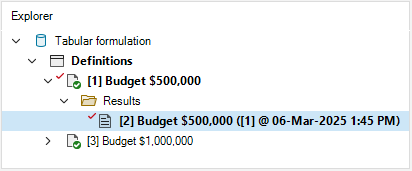
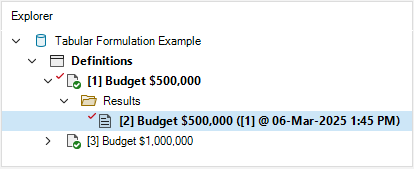
Updates phase 3

diff --git a/docs/multi-cost_prioritization_tutorial.md b/docs/multi-cost_prioritization_tutorial.md
@@ -12,8 +12,6 @@ permalink: /multicost_prioritization
   }
 </style>
 
-<!-- Update library name so "cost" is also title case !-->
-
 ## **Multi-cost prioritization with prioritizr SyncroSim**
 
 This tutorial provides an overview of working with **prioritizr** in SyncroSim Studio to demonstrate how to integrate multiple cost-layers into a lake conservation problem. It covers the following steps:
@@ -37,7 +35,7 @@ In SyncroSim, a library is a file with extension *.ssim* that stores all the mod
   a. From the list of packages, select <b>prioritizr</b>. 
   <!-- Add screenshots of this step !--> 
   <br><br>
-  b. From the list of template libraries, select the <b>Multi-cost Lake Prioritization (Ontario, Canada)</b> template library.
+  b. From the list of template libraries, select the <b>Multi-Cost Lake Prioritization (Ontario, Canada)</b> template library.
   <!-- Add screenshots of this step !--> 
   <br><br>
   c. If desired, you may edit the <i>File name</i>, and change the <i>Folder</i> by clicking on the <b>Browse</b> button.
@@ -50,14 +48,12 @@ In SyncroSim, a library is a file with extension *.ssim* that stores all the mod
 A new library has been created based on the selected template, and SyncroSim will have automatically opened and displayed it in the *Explorer* window.
 
 <img align="center" style="padding: 13px" width="800" src="assets/images/screenshot79.png">
-<!-- When time allows, update to window shows fully (i.e., S icon and library name) !-->
 
 3\.	Double-click on the library name, **Multi-Cost Lake Prioritization (Ontario, Canada)**, to open the library properties window. You may also right-click on the library name and select **Open** from the context menu.
 
 <img align="center" style="padding: 13px" width="600" src="assets/images/screenshot80.png">
 
 4\.	The **Summary** datasheet contains the metadata for the library.
-<!-- Update with new library name !-->
 
 <img align="center" style="padding: 13px" width="500" src="assets/images/screenshot81.png">
 
@@ -91,7 +87,7 @@ Now you will review the inputs for the **No costs** scenario, which provides a b
 
 11\.	Navigate to the **Pipeline** datasheet. Pipeline stages call on a transformer (*i.e.*, script) which takes the inputs from SyncroSim, runs a model, and returns the results to SyncroSim. Under the *Stage* column, note that a single pipeline stage is set, called *Base Prioritization*.
 
-<img align="center" style="padding: 13px" width="400" src="assets/images/screenshot86.png">
+<img align="center" style="padding: 13px" width="500" src="assets/images/screenshot86.png">
 
 12\. Navigate to the **Prioritizr** tab, and expand the **Base Prioritization > Data** nodes. 
 
@@ -114,7 +110,11 @@ Now you will review the inputs for the **No costs** scenario, which provides a b
 <div class=indentation>
   c. Open the <b>Tabular Inputs</b> datasheet, and review the following inputs:
   <br>
-  <!-- Add screenshot !-->
+
+  <img align="center" style="padding: 13px" width="600" src="assets/images/screenshot88-2.png">
+
+  <br>
+
   <div class=indentation>
     i. <i>Planning Units</i> – a data table of the different lakes of interest in Ontario, Canada. Each lake has an unique ID. A cost column, here called <i>PA_target</i>, is also provided and set to <i>1</i> for all lakes.
     <br>
@@ -130,7 +130,7 @@ Now you will review the inputs for the **No costs** scenario, which provides a b
     <br>
     iv. <i>Cost column</i> – corresponds to the column in the <i>Plannin Units</i> input representing the cost variable.
     <br>
-    <img align="center" style="padding: 13px" width="500" src="assets/images/screenshot92.png">
+    <img align="center" style="padding: 13px" width="600" src="assets/images/screenshot92.png">
   </div>
 </div>
 
@@ -214,16 +214,17 @@ Now, you will review the additional scenarios and explore how they differ from t
 
 4\. In the *Explorer* window, expand the **All costs, Equal > Dependencies** and **All costs, Hierarchical > Dependencies** nodes to reveal the **No costs** scenario dependency.
 
-<img align="center" style="padding: 13px" width="400" src="assets/images/screenshot100.png">
-<!-- Update so it shows both scenarios !-->
+<img align="center" style="padding: 13px" width="300" src="assets/images/screenshot100.png">
 
 5\. Select the pre-configured scenario **All costs, Equal** and double-click it to open its properties. You may also right-click on the scenario name and select **Open** from the context menu.
 
 6\. In the **Summary** datasheet, note the *Description* that says that this scenario "integrates five cost layers into the prioritization process, treating all cost layers with equal importance". 
-<!-- Add screenshot !-->
+
+<img align="center" style="padding: 13px" width="500" src="assets/images/screenshot100-2.png">
 
 7\. Open the **Pipeline** datasheet and note that the *“Inherit values from ‘[1] No costs’”* checkbox in the bottom left corner is not marked, and new pipeline stage is set, called *Multi-Cost Prioritization*.
-<!-- Add screenshot !-->
+
+<img align="center" style="padding: 13px" width="500" src="assets/images/screenshot100-3.png">
 
 8\. Navigate to the **Prioritizr** tab, expand the **Base Prioritization > Data** nodes, and open the **Input Format** datasheet. Notice that this information cannot be edited (*i.e.*, greyed out) and the *“Inherit values from ‘[2] No costs’”* checkbox in the bottom left corner is marked. This indicates that values within this datasheet and others are derived from the **No costs** result scenario acting as a dependency.
   
@@ -237,7 +238,6 @@ Now, you will review the additional scenarios and explore how they differ from t
 </div>
 
 <img align="center" style="padding: 13px" width="600" src="assets/images/screenshot102-2.png">
-<!-- Update to show the variability between columns instead of all 1's !-->
 
 10\. Next, open the **Parameters** datasheet and note that *Prioritization method* is set to *Equal*. This specifies how the cost variables will be integrated into the prioritization process; In this case, meaning that minimizing cost is treated with equal importance across all cost variables. Default values are provided for the additional parameters.
 
@@ -246,7 +246,8 @@ Now, you will review the additional scenarios and explore how they differ from t
 11\. Select the pre-configured scenario **All costs, Hierarchical** and double-click it to open its properties. You may also right-click on the scenario name and select **Open** from the context menu.
 
 12\. In the **Summary** datasheet, note the *Description* that says that this scenario "integrates five cost layers into the prioritization process based on the following hierarchy of cost-reduction importance, from most to least important: protected area, lakeshore capacity, sanctuary, Brook Trout regulation, Lake Trout regulation".
-<!-- Add screenshot !-->
+
+<img align="center" style="padding: 13px" width="500" src="assets/images/screenshot103-2.png">
 
 13\. Navigate to the **Prioritizr** tab, expand the **Multi-Cost Prioritization** node, and open the **Parameters** datasheet to note that *Prioritization method* is set to *Hierarchical*. All other input and parameters are identical to the **All costs, Equal** scenario.
 

diff --git a/docs/climate_refugia_prioritization_tutorial.md b/docs/climate_refugia_prioritization_tutorial.md
@@ -105,8 +105,12 @@ Now you will review the inputs for the **Equal weight** scenario, which provides
 
 <div class=indentation>
   c. Open the <b>Tabular Inputs</b> datasheet, and review the following inputs:
-  <!-- Add screenshot !-->
   <br>
+
+  <img align="center" style="padding: 13px" width="600" src="assets/images/screenshot62-5.png">
+
+  <br>
+
   <div class=indentation>
     i. <i>Planning Units</i> – a data table of the different lakes of interest in Muskoka, Ontario. Each lake has an unique ID. A <i>cost</i> column is also provided and set to <i>1</i> for all lakes.
     <br>
@@ -124,7 +128,6 @@ Now you will review the inputs for the **Equal weight** scenario, which provides
       <img align="center" style="padding: 13px" width="600" src="assets/images/screenshot63.png">
   </div>
 </div>
-
 
 
 12\. Expand the **Parameters** node. 
@@ -211,13 +214,13 @@ The *Climate Refugia Prioritization (Muskoka, Ontario)* template library already
   b. Click on the <b>Solution</b> column to reorder the table's contents in decreasing order. <i>Solution</i> values equal to 1 represent the planning units that were selected by the solution.
 </div>
 
-<img align="center" style="padding: 13px" width="450" src="assets/images/screenshot70-2.png">
+<img align="center" style="padding: 13px" width="650" src="assets/images/screenshot70-2.png">
 
 3\. Close the scenario properties tab, and from the *Explorer* window, collapse the scenario node by clicking on the downward facing arrow beside the **Equal weight** scenario.
 
 4\. Navigate to the **Maps** tab, and double-click on the first pre-configured map: **Solution**. This map displays a visual representation of the tabular result you just inspected, showing the lakes that were selected in the solution to the conservation planning problem. 
 
-<img align="center" style="padding: 13px" width="450" src="assets/images/screenshot70-3.png">
+<img align="center" style="padding: 13px" width="600" src="assets/images/screenshot70-3.png">
 
 5\. Close the results panels.
 
@@ -267,6 +270,6 @@ Now, you will review the additional scenarios, which are equal to the *Equal wei
 
 <br>
 
-This tutorial demonstrated how **prioritizr** can be used to build tabular formulations of conservation problems, with a spatial visualization of the results, and covered how to add feature weights to control the relative importance of features in the prioritization. Next, to explore how to further customize a conservation problem with multiple cost layers, see the next tutorial <a href="/multicost_prioritization">Multi-cost prioritization with prioritizr SyncroSim</a>. 
+This tutorial demonstrated how **prioritizr** can be used to build tabular formulations of conservation problems, with a spatial visualization of the results, and covered how to add feature weights to control the relative importance of features in the prioritization. Next, to explore how to further customize a conservation problem with multiple cost layers, see the next tutorial <a href="/multicost_prioritization">Multi-Cost Prioritization with prioritizr SyncroSim</a>. 
 
 <br><br><br>

diff --git a/docs/spatial_formulation_tutorial.md b/docs/spatial_formulation_tutorial.md
@@ -84,7 +84,6 @@ Now, you will review the inputs for the **Initial problem** scenario, which sets
 10\.	Navigate to the **Pipeline** datasheet. Pipeline stages call on a transformer (*i.e.*, script) which takes the inputs from SyncroSim, runs a model, and returns the results to SyncroSim. Under the *Stage* column, note that a single pipeline stage is set, called *Base Prioritization*.
 
 <img align="center" style="padding: 13px" width="500" src="assets/images/screenshot14-2.png">
-<!---	This screenshot is of another library and scenario; update so it matches here !-->
 
 11\. Navigate to the **Prioritizr** tab, and expand the **Base Prioritization > Data** nodes. 
 
